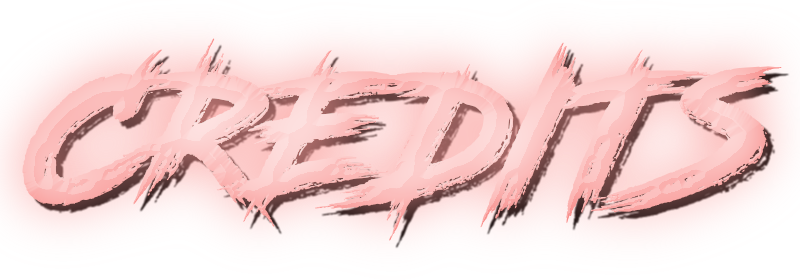
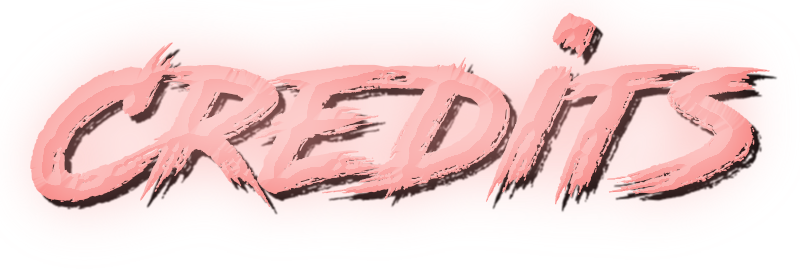
Added drop shadow to tutorial page and credits, changed tutorial button, changed color of credits text

Changed region(s): [[0.0, 0.0286, 1.0, 0.8857]]

diff --git a/ourLibraries/Credits.js b/ourLibraries/Credits.js
@@ -1,16 +1,23 @@
-var creditsGroup, credits, credits2, credits3;
+var creditsGroup, credits1, credits2, credits3, creditsShadow, creditsShadow2,
+  creditsShadow3;
 function initCredits() {
   creditsGroup = new PIXI.Container();
   buttonBack = createButton(WIDTH * 0.15, HEIGHT * .85, mainMenu, creditsGroup, 'back');
   let creditsStyle =
   {
-    'title' : { font: '144px Road_Rage', fill: '#ffffff'},
-    'title2' : { font: '96px Road_Rage', fill: '#ffffff'},
-    'name' : { font: '72px Road_Rage', fill: '#ffffff'},
+    'title' : { font: '144px Road_Rage', fill: '#F77A77'},
+    'title2' : { font: '96px Road_Rage', fill: '#F77A77'},
+    'name' : { font: '72px Road_Rage', fill: '#F77A77'},
+  };
+  let creditsStyleShadow =
+  {
+    'title' : { font: '144px Road_Rage', fill: '#000000'},
+    'title2' : { font: '96px Road_Rage', fill: '#000000'},
+    'name' : { font: '72px Road_Rage', fill: '#000000'},
   };
   // Credits must be broken into smaller sprites because
   // WebGL has a limitation of 8192x8192 size texture for the cache
-  credits = new PIXI.MultiStyleText('<title>PESKY\n\n\n</title>' +
+  credits1 = new PIXI.MultiStyleText('<title>PESKY\n\n\n</title>' +
     '<title2>UW-Stout\nGDD-325\n\n\n\n</title2>' +
     '<title2>Art\n\n\n\n\n</title2>' +
     '<name>Susan Evans\n\nAllan Seckora\n</name>' +
@@ -31,18 +38,45 @@ function initCredits() {
     creditsStyle,
     { align: 'center' }
   );
-  credits.anchor.set(0.5, 0);
-  credits.y = HEIGHT + 10;
-  credits.x = WIDTH / 2;
+  creditsShadow1 = new PIXI.MultiStyleText('<title>PESKY\n\n\n</title>' +
+    '<title2>UW-Stout\nGDD-325\n\n\n\n</title2>' +
+    '<title2>Art\n\n\n\n\n</title2>' +
+    '<name>Susan Evans\n\nAllan Seckora\n</name>' +
+    '<title2>Programming\n</title2>\n',
+    creditsStyleShadow,
+    { align: 'center' }
+  );
+  creditsShadow2 = new PIXI.MultiStyleText(
+    '<name>\nAlex Hill\n\nDan Hying\n\nLeslie Murphy\n\nThomas Rosik\n</name>' +
+    '<title2>\nInstructor\n\n\n\n\n</title2>' +
+    '<name>Seth Berrier</name>',
+    creditsStyleShadow,
+    { align: 'center' }
+  );
+  creditsShadow3 = new PIXI.MultiStyleText(
+    '<title2>Music\n\n</title2>' +
+    '<name>Tristan Lohengrin</name>',
+    creditsStyleShadow,
+    { align: 'center' }
+  );
+  credits1.anchor.set(0.5, 0);
+  credits1.y = HEIGHT + 10;
   credits2.anchor.set(0.5, 0);
-  credits2.x = WIDTH / 2;
-  credits2.y = credits.height - HEIGHT;
+  credits2.y = credits1.height - HEIGHT;
   credits3.anchor.set(0.5, 0);
-  credits3.x = WIDTH / 2;
   credits3.y = credits2.y + credits2.height - 150;
+  for (let i = 1; i <= 3; i++) {
+    eval('credits'+i).x = WIDTH / 2;
+    eval('creditsShadow'+i).anchor.set(0.5, 0);
+    eval('creditsShadow'+i).x = WIDTH / 2 + 5;
+    eval('creditsShadow'+i).y = eval('credits'+i).y + 5;
+  }
   buttonBack.scale.x = 0.5;
   buttonBack.scale.y = 0.5;
-  creditsGroup.addChild(credits);
+  creditsGroup.addChild(creditsShadow1);
+  creditsGroup.addChild(creditsShadow2);
+  creditsGroup.addChild(creditsShadow3);
+  creditsGroup.addChild(credits1);
   creditsGroup.addChild(credits2);
   creditsGroup.addChild(credits3);
   creditsGroup.addChild(buttonBack);

diff --git a/ourLibraries/Tutorial.js b/ourLibraries/Tutorial.js
@@ -1,12 +1,20 @@
-var tutorialGroup, tutorial;
+var tutorialGroup, tutorial, tutorialShadow;
 function initTutorial() {
   tutorialGroup = new PIXI.Container();
   buttonBack = createButton(WIDTH * 0.15, HEIGHT * .85, mainMenu, tutorialGroup, 'back');
   buttonBack.scale.x = 0.5;
   buttonBack.scale.y = 0.5;
-  tutorial = new PIXI.Text('a - move left\nd - move right\ne - enter houses/hedges\nf - attack\nspace bar - jump\nn - change street', {font: '50px Road_Rage', fill: '#F77A77'});
+  tutorial = new PIXI.Text('a - move left\nd - move right\ne - enter houses/hedges' +
+    '\nf - attack\nspace bar - jump\nn - change street',
+    {font: '50px Road_Rage', fill: '#F77A77'});
+  tutorialShadow = new PIXI.Text('a - move left\nd - move right\ne - enter houses/hedges' +
+    '\nf - attack\nspace bar - jump\nn - change street',
+    {font: '50px Road_Rage', fill: '#000000'});
   tutorial.x += 50;
+  tutorialShadow.x += 55;
+  tutorialShadow.y += 5;
 
+  tutorialGroup.addChild(tutorialShadow);
   tutorialGroup.addChild(tutorial);
   tutorialGroup.addChild(buttonBack);
   g.stage.addChild(tutorialGroup);

diff --git a/ourLibraries/GameStates.js b/ourLibraries/GameStates.js
@@ -20,7 +20,10 @@ function optionsState() {
 }
 function creditsState() {
   updateFps();
-  credits.y -= 4 * 60 / fps;
+  creditsShadow1.y -= 4 * 60 / fps;
+  creditsShadow2.y -= 4 * 60 / fps;
+  creditsShadow3.y -= 4 * 60 / fps;
+  credits1.y -= 4 * 60 / fps;
   credits2.y -= 4 * 60 / fps;
   credits3.y -= 4 * 60 / fps;
 }
